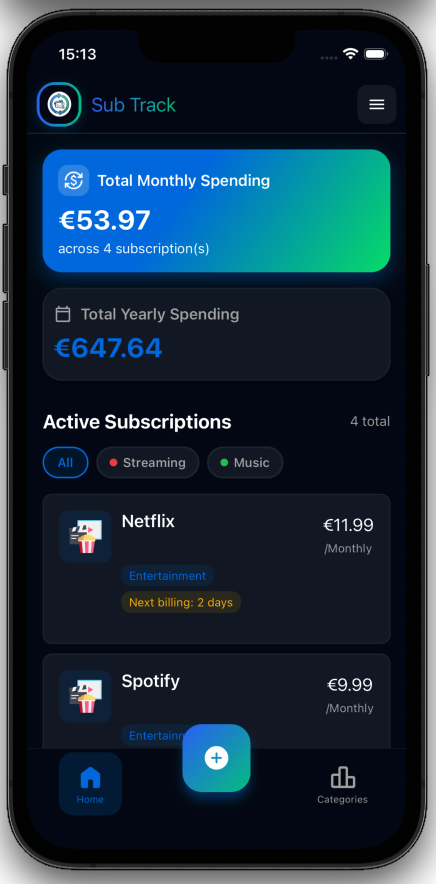
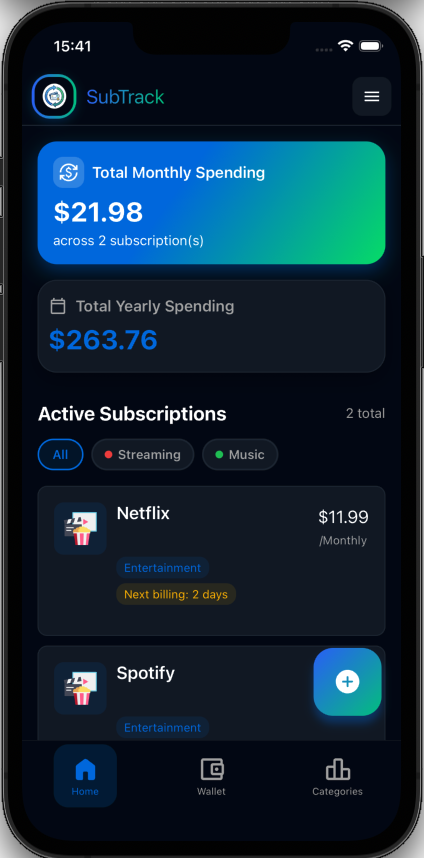
fix: correct spelling of 'subtrack' in readme and update screenshot references

diff --git a/README.md b/README.md
@@ -1,4 +1,4 @@
-# Sub Track 💸
+# SubTrack 💸
 
 > **Take back control of your expenses. Never pay for an unwanted renewal again.**
 
@@ -9,9 +9,9 @@
 
 ## 📋 About The Project
 
-**Sub Track** is a clean, simple, and privacy-focused subscription manager built with **React Native** and **Expo**. It helps users keep track of recurring payments like Netflix, Spotify, gym memberships, and software licenses.
+**SubTrack** is a clean, simple, and privacy-focused subscription manager built with **React Native** and **Expo**. It helps users keep track of recurring payments like Netflix, Spotify, gym memberships, and software licenses.
 
-In a world full of micro-transactions, it's easy to lose track of where your money goes. Sub Track calculates your total monthly and annual expenses and sends **local notifications** before an automatic payment is charged. This gives users the crucial time needed to decide whether to keep a service or cancel it before the renewal hits.
+In a world full of micro-transactions, it's easy to lose track of where your money goes. SubTrack calculates your total monthly and annual expenses and sends **local notifications** before an automatic payment is charged. This gives users the crucial time needed to decide whether to keep a service or cancel it before the renewal hits.
 
 ### 🌟 Key Features
 
@@ -19,7 +19,7 @@ In a world full of micro-transactions, it's easy to lose track of where your mon
 * **🔔 Smart Expiration Alerts:** Receive customizable local push notifications (e.g., 1 day before renewal) so you never get charged unexpectedly.
 * **🏷 Labels:** Create and assign custom color-coded labels to your subscriptions for flexible, personalized organization beyond standard categories.
 * **wm Categories:** Organize your subscriptions by type (Entertainment, Work, Home, Utilities) to see exactly which area of your life costs the most.
-* **🔒 Privacy First (Local Storage):** Your financial data is yours alone. Sub Track uses **AsyncStorage** to keep all data locally on your device. No external servers, no cloud tracking.
+* **🔒 Privacy First (Local Storage):** Your financial data is yours alone. SubTrack uses **AsyncStorage** to keep all data locally on your device. No external servers, no cloud tracking.
 
 ---
 
@@ -37,9 +37,9 @@ In a world full of micro-transactions, it's easy to lose track of where your mon
 
 ## 📱 Screenshots
 
-| Dashboard | Add Subscription | Categories |
+| Dashboard | Wallet | Categories |
 |:---:|:---:|:---:|
-| ![Dashboard Shot](./screenshots/image1.png) | ![Add Shot](./screenshots/image2.png) | ![Categories Shot](./screenshots/image3.png) |
+| ![Dashboard Shot](./screenshots/image1.png) | ![Wallet Shot](./screenshots/image2.png) | ![Categories Shot](./screenshots/image3.png) |
 
 *(Note: Screenshots are stored in the `screenshots/` folder to keep the app bundle light)*
 
@@ -87,7 +87,7 @@ To get a local copy up and running, follow these simple steps.
 
 ## 🛡 Privacy Policy
 
-Sub Track is designed with privacy as a core principle.
+SubTrack is designed with privacy as a core principle.
 * We do not track user activity.
 * We do not store data on external servers.
 * All data is stored locally using `AsyncStorage` and stays on the user's device.
